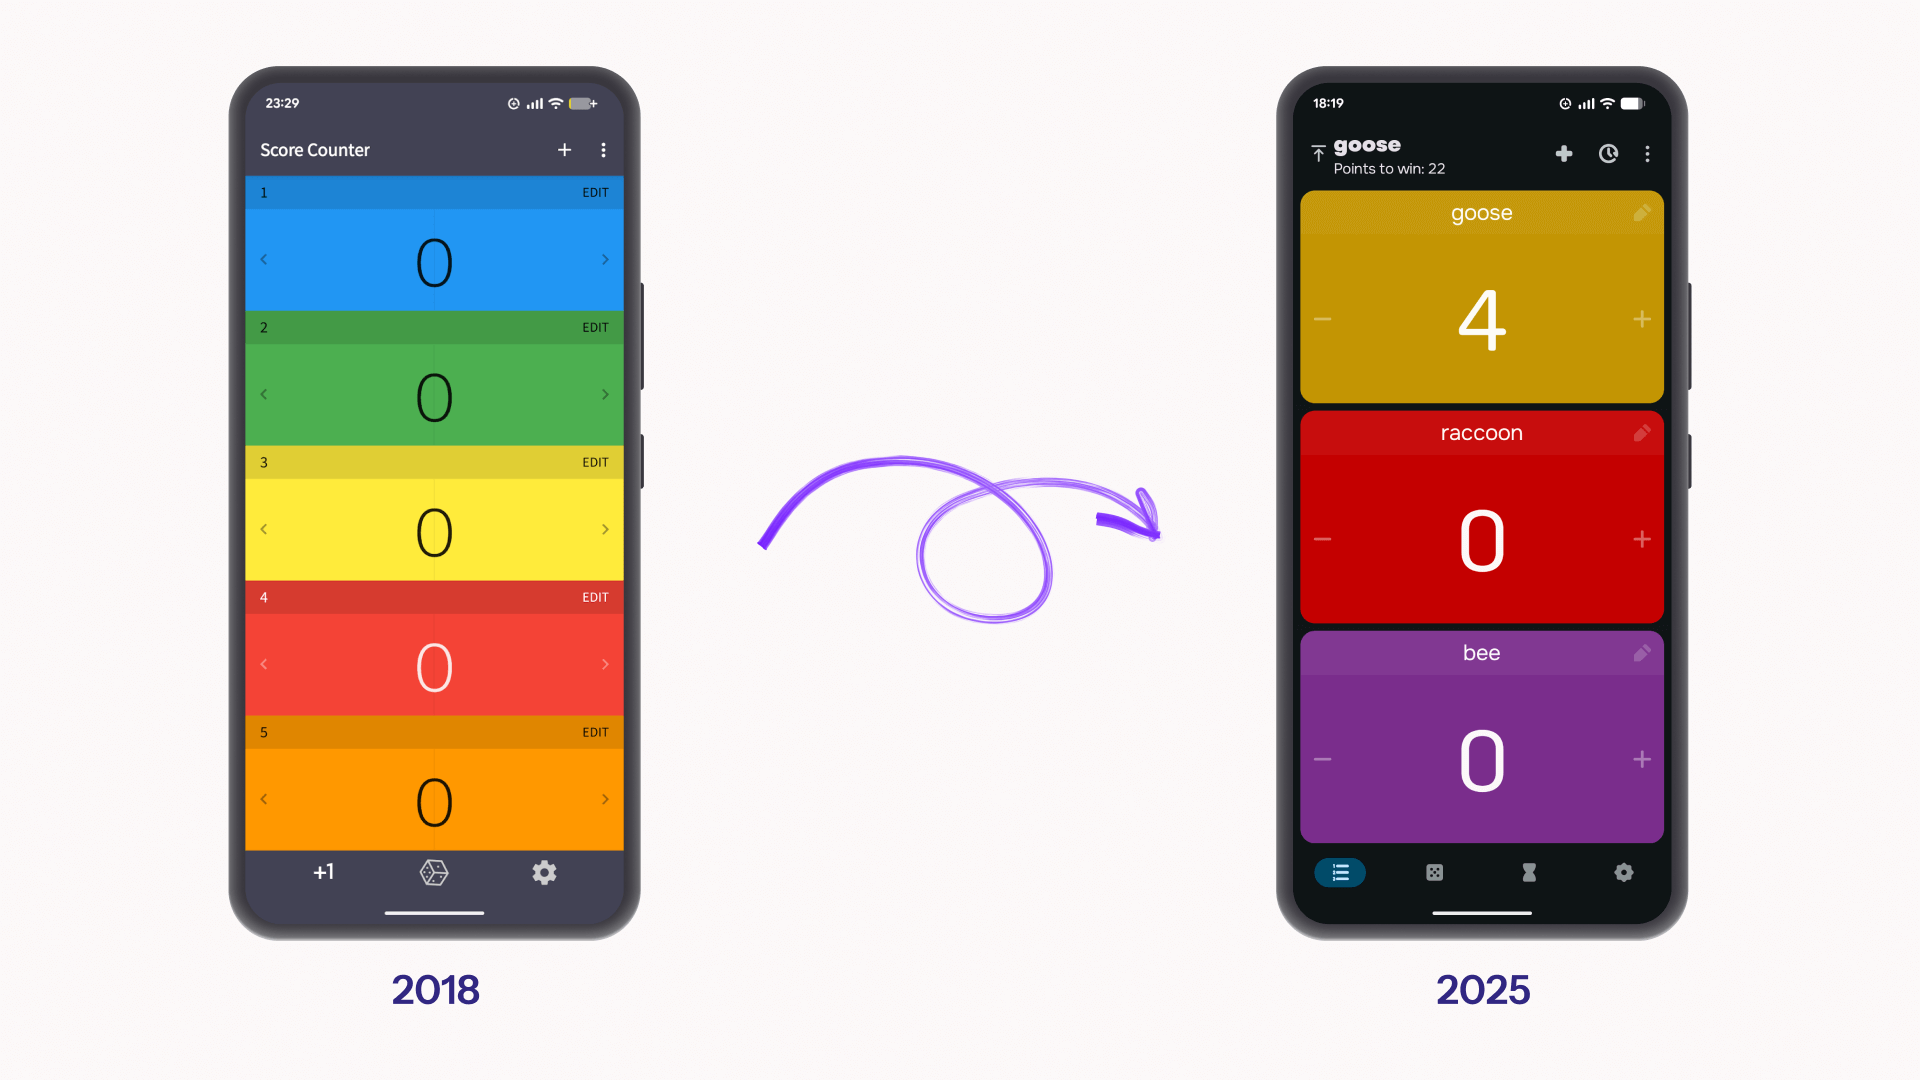
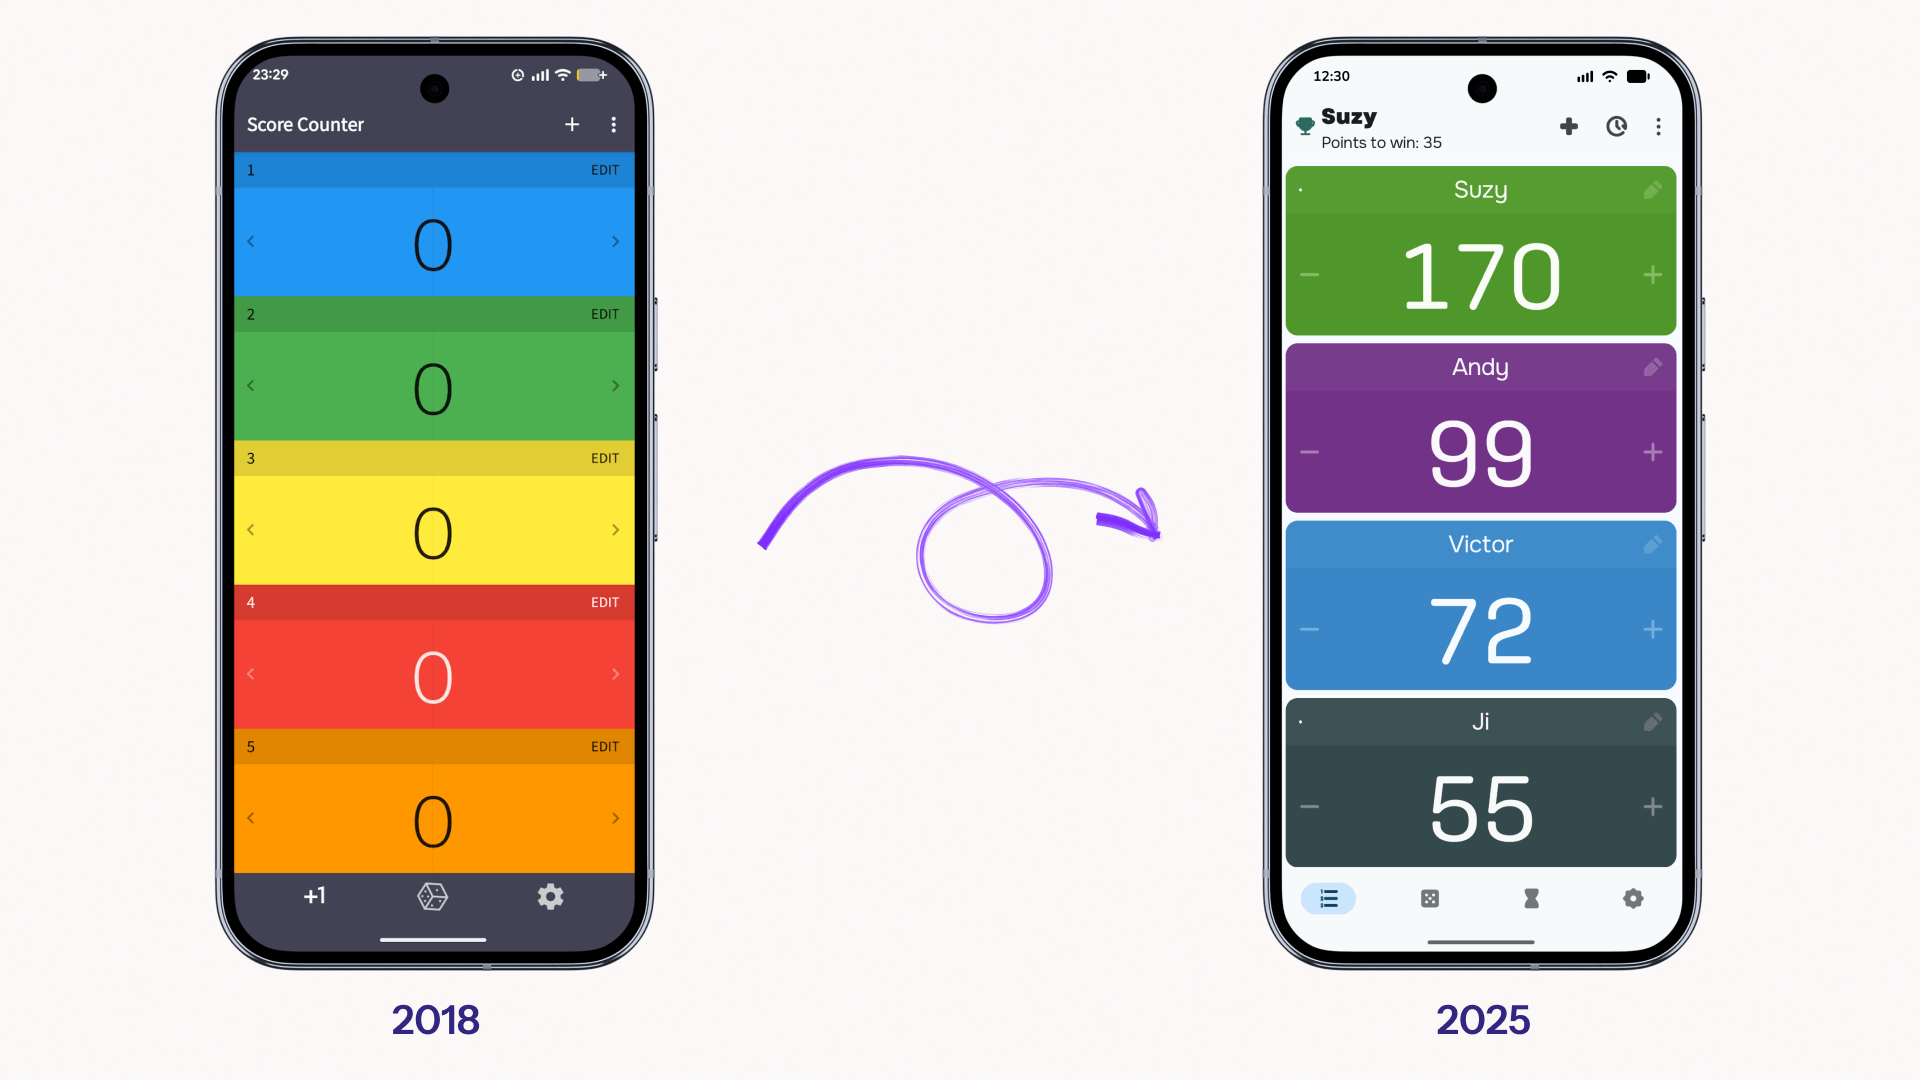
feat: Add new score counter bonus image, update references in score counter and support pages, and enhance content clarity with improved section headings.

Changed region(s): [[0.6562, 0.0306, 0.9062, 0.9778], [0.0938, 0.0306, 0.3438, 0.9778]]

diff --git a/src/app/components/home-page.tsx b/src/app/components/home-page.tsx
@@ -53,21 +53,21 @@ const workExperience = [
     title: "Product designer at Yesim",
     period: "Apr 2021 - Mar 2026",
     context: "Web and\u00a0mobile platforms - B2B and\u00a0B2C contexts",
-    description: "Worldwide eSIM store serving 3M+ customers",
+    description: "Led product design for B2B products. Created multi-brand design system.",
     link: { href: "https://yesim.app/", label: "Try Yesim" },
   },
   {
     title: "Product designer at\u00a0SMBF",
     period: "Aug 2020 - Apr 2021",
     context: "WEB",
-    description: "Online reputation SaaS platform",
+    description: "Designed the MVP web platform.",
   },
   {
     title: "From Android dev to\u00a0product designer at\u00a0Eventssion",
     period: "Jan 2016 - Apr 2020",
     context: "WEB, iOS, Android - B2B and\u00a0B2C contexts",
     description:
-      "Event management and\u00a0online ticketing platform. From scratch to\u00a050K users.",
+      "Led the design team. Event management and\u00a0ticketing platform, from scratch to\u00a050K\u00a0users.",
     link: {
       href: "https://betalist.com/startups/eventssion",
       label: "View project",
@@ -131,7 +131,7 @@ export function HomePage() {
               Roma Shuliatiev
             </h2>
             <p style={{ fontSize: fluidBase, lineHeight: 1.5 }}>
-              {nbsp("Product designer with 5 years across B2B SaaS and consumer products. I have a development background, which means I tend to think about design decisions in terms of how they'll actually get built — and I've led work across research, systems, and shipping.")}
+              {nbsp("Product designer, 5 years in B2B SaaS and consumer. Dev background — I think about design in terms of how it actually ships.")}
             </p>
           </div>
           <div className="flex flex-col" style={{ gap: "clamp(0.375rem, 0.35rem + 0.1vw, 0.5rem)" }}>
@@ -142,7 +142,7 @@ export function HomePage() {
               Now
             </h3>
             <p style={{ fontSize: fluidBase, lineHeight: 1.5 }}>
-              {nbsp("I'm open to new roles. Outside of work, I maintain Score Counter — a scorekeeper app I built in 2016 that now has 600K installs and 87.2K monthly active users.")}
+              {"Open to new roles — product design, full-time."}
             </p>
           </div>
         </section>
@@ -267,7 +267,10 @@ export function HomePage() {
             Skills & tools
           </h2>
           <p style={{ fontSize: fluidBase, lineHeight: 1.5 }}>
-            {nbsp("I've worked across research, systems design, and shipping — usually as the only designer on a team. Having started as an Android developer, I'm comfortable reading code and working directly in engineering reviews.")}
+            {nbsp("I've led work across user research, systems design, and end-to-end shipping — from building products solo to leading a design team.")}
+          </p>
+          <p style={{ fontSize: fluidBase, lineHeight: 1.5 }}>
+            {nbsp("Strong proficiency with Figma. Familiarity with AI, analytics and A/B testing tools.")}
           </p>
         </section>
       </SectionAnimate>

diff --git a/src/app/components/support-page.tsx b/src/app/components/support-page.tsx
@@ -3,6 +3,7 @@ import { nbsp } from "./utils/nbsp";
 import { Heart, Star, MessageCircle, ExternalLink } from "lucide-react";
 import { DashedDivider } from "./dashed-divider";
 import { fluidBase, fluidSmall, fluidH1, fluidH3, sectionGap, innerGap } from "./utils/typography";
+import { SectionHeading } from "./case-study-components";
 const heroImage = "/images/support-hero.png";
 
 const supportOptions = [
@@ -77,7 +78,7 @@ export function SupportPage() {
       {/* About */}
       <SectionAnimate delay={0.1}>
         <section className="flex flex-col" style={{ gap: innerGap }}>
-          <h2 style={{ fontSize: fluidH3, lineHeight: 1 }}>The story</h2>
+        <SectionHeading>The story</SectionHeading>
           <div
             className="flex flex-col"
             style={{ gap: "clamp(0.5rem, 0.45rem + 0.25vw, 0.75rem)" }}
@@ -99,9 +100,7 @@ export function SupportPage() {
       {/* Why players love it */}
       <SectionAnimate delay={0.15}>
         <section className="flex flex-col" style={{ gap: innerGap }}>
-          <h2 style={{ fontSize: fluidH3, lineHeight: 1 }}>
-            Why players love it
-          </h2>
+        <SectionHeading>Why players love it</SectionHeading>
           <div
             className="flex flex-col"
             style={{ gap: "clamp(0.75rem, 0.7rem + 0.25vw, 1rem)" }}
@@ -177,9 +176,7 @@ export function SupportPage() {
           style={{ gap: "clamp(1rem, 0.9rem + 0.5vw, 1.5rem)" }}
         >
           <div className="flex flex-col" style={{ gap: innerGap }}>
-            <h2 style={{ fontSize: fluidH3, lineHeight: 1 }}>
-              How to support
-            </h2>
+          <SectionHeading> How to support</SectionHeading>
             <p
               className="text-muted-foreground"
               style={{ fontSize: fluidBase, lineHeight: 1.6 }}

diff --git a/src/app/components/score-counter-page.tsx b/src/app/components/score-counter-page.tsx
@@ -12,7 +12,7 @@ const heroImage = "/images/score-counter-hero.png";
 const evolutionImage = "/images/score-counter-evolution.png";
 const flowImage = "/images/score-counter-flow.png";
 const testimonialsImage = "/images/score-counter-testimonials.png";
-const unexpectedUseCasesImage = "/images/score-counter-unexpected-uses.png";
+const unexpectedUseCasesImage = "/images/score-counter-bonus.png";
 
 /* ── Data ─────────────────────────────────────────────── */
 
